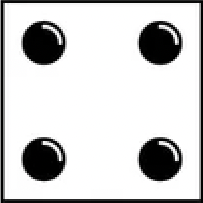
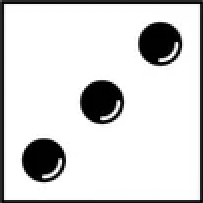
Worked on all classes, got window to work-ish

diff --git a/src/Pig.java b/src/Pig.java
@@ -15,15 +15,12 @@ public class Pig {
     //Initializes turn counter
     public static int numTurns;
 
-    private static PigViewer window;
+    private PigViewer window;
 
-    public static void main(String[] args) {
+    public Pig(){
         //Creates two default 6 sided dice
-        d1 = new Die();
-        d2 = new Die();
-
-        //Starts the game
-        playingGame = true;
+        d1 = new Die(window);
+        d2 = new Die(window);
 
         //Creates the player's scorecard:
         playerScore = 0;
@@ -32,6 +29,17 @@ public class Pig {
         numTurns = 0;
 
         window = new PigViewer(this, d1, d2);
+    }
+
+    public static void main(String[] args) {
+
+        Pig p = new Pig();
+        p.run();
+    }
+
+    public void run(){
+        //Starts the game
+        playingGame = true;
 
         //Prints instructions
         printInstructions();
@@ -53,7 +61,7 @@ public class Pig {
         }
     }
 
-    public static int takeTurn()
+    public int takeTurn()
     {
         boolean takingTurn = true;
 
@@ -124,7 +132,7 @@ public class Pig {
         return 0;
     }
 
-    public static int roll(Die d1, Die d2)
+    public int roll(Die d1, Die d2)
     {
         //Rolls both die
         int d1Value = d1.roll();
@@ -146,7 +154,7 @@ public class Pig {
         }
     }
 
-    public static void printInstructions()
+    public void printInstructions()
     {
         //Gets the number of sides each die has
         int d1Sides = d1.getSides();
@@ -168,23 +176,23 @@ public class Pig {
         System.out.println();
     }
 
-    public static Die getD1() {
+    public Die getD1() {
         return d1;
     }
 
-    public static Die getD2() {
+    public Die getD2() {
         return d2;
     }
 
-    public static boolean isPlayingGame() {
+    public boolean isPlayingGame() {
         return playingGame;
     }
 
-    public static int getPlayerScore() {
+    public int getPlayerScore() {
         return playerScore;
     }
 
-    public static int getNumTurns() {
+    public int getNumTurns() {
         return numTurns;
     }
 }

diff --git a/src/PigViewer.java b/src/PigViewer.java
@@ -6,20 +6,26 @@ public class PigViewer extends JFrame{
     private final int WINDOW_WIDTH = 800;
     private final int WINDOW_HEIGHT = 800;
 
+    private final int d1X = 160;
+    private final int d2X = 480;
+
+    private final int WIN_X = 240;
+    private final int WIN_Y = 400;
+
     private Image image;
 
     private Pig p;
 
     private int screenStatus;
 
-    private Die[] dice;
+    private Die d1;
+    private Die d2;
 
     public PigViewer(Pig p, Die d1, Die d2){
         this.p = p;
 
-        dice = new Die[2];
-        dice[0] = d1;
-        dice[1] = d2;
+        this.d1 = d1;
+        this.d2 = d2;
 
         screenStatus = 0;
 
@@ -35,21 +41,26 @@ public class PigViewer extends JFrame{
 
     public void paint(Graphics g){
         //TODO: draw white screen
+        g.drawRect(0, 22, WINDOW_WIDTH, WINDOW_HEIGHT);
+
         if(screenStatus == 0){
             //TODO: show instructions image
+            image = new ImageIcon("Resources/Instructions.png").getImage();
+            g.drawImage(image, 0, 22, WINDOW_WIDTH, WINDOW_HEIGHT, this);
         }
         else if (screenStatus == 1) {
             //TODO: show playing screen
 
-            for(Die d : dice){
-                d.draw(g);
-            }
-
+            d1.draw(g, d1X);
+            d2.draw(g, d2X);
         }
         else if (screenStatus == 2){
             //TODO: show winning screen
             image = new ImageIcon("Resources/Win.png").getImage();
             g.drawImage(image, 0, 22, WINDOW_WIDTH, WINDOW_HEIGHT, this);
+
+            String turns = String.valueOf(p.getNumTurns());
+            g.drawString(turns, WIN_X, WIN_Y);
         }
     }
 }

diff --git a/src/Die.java b/src/Die.java
@@ -3,15 +3,21 @@ import java.awt.*;
 
 public class Die
 {
+    private final int DIE_WIDTH = 160;
+    private final int DIE_HEIGHT = 160;
     //Instance variable
     private int sides;
     private int value;
 
+    private PigViewer window;
+
     private Image image;
 
     //Defult constructor
-    public Die()
+    public Die(PigViewer window)
     {
+        this.window = window;
+
         sides = 6;
         value = 0;
     }
@@ -64,8 +70,10 @@ public class Die
         return min;
     }
 
-    public void draw(Graphics g){
+    public void draw(Graphics g, int x){
         image = new ImageIcon("Resources/" + this.value + ".png").getImage();
+        //find a way to fix the x value here
+        g.drawImage(image, x, DIE_HEIGHT, DIE_WIDTH, DIE_HEIGHT, window);
     }
 
     public String toString()
